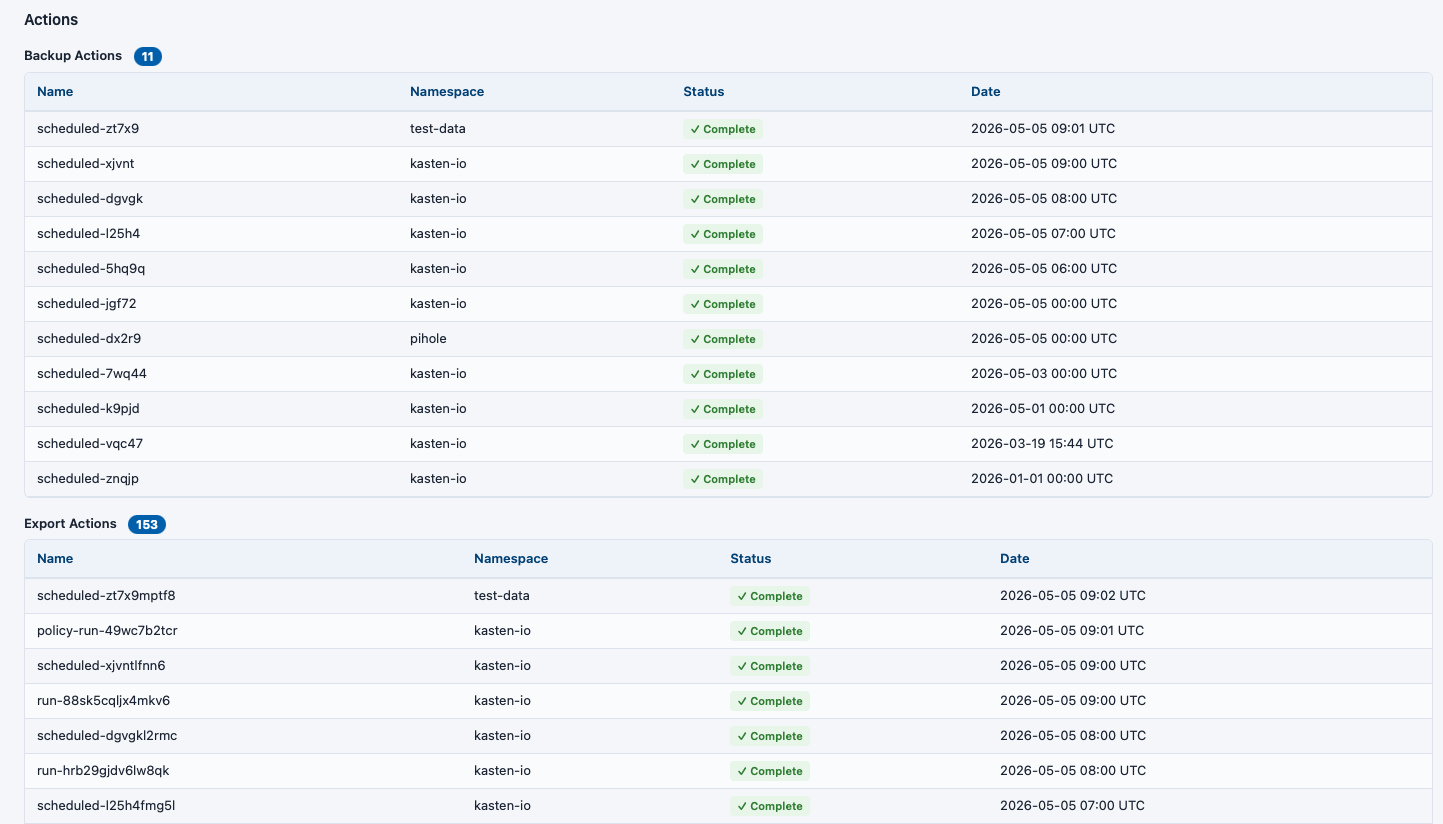
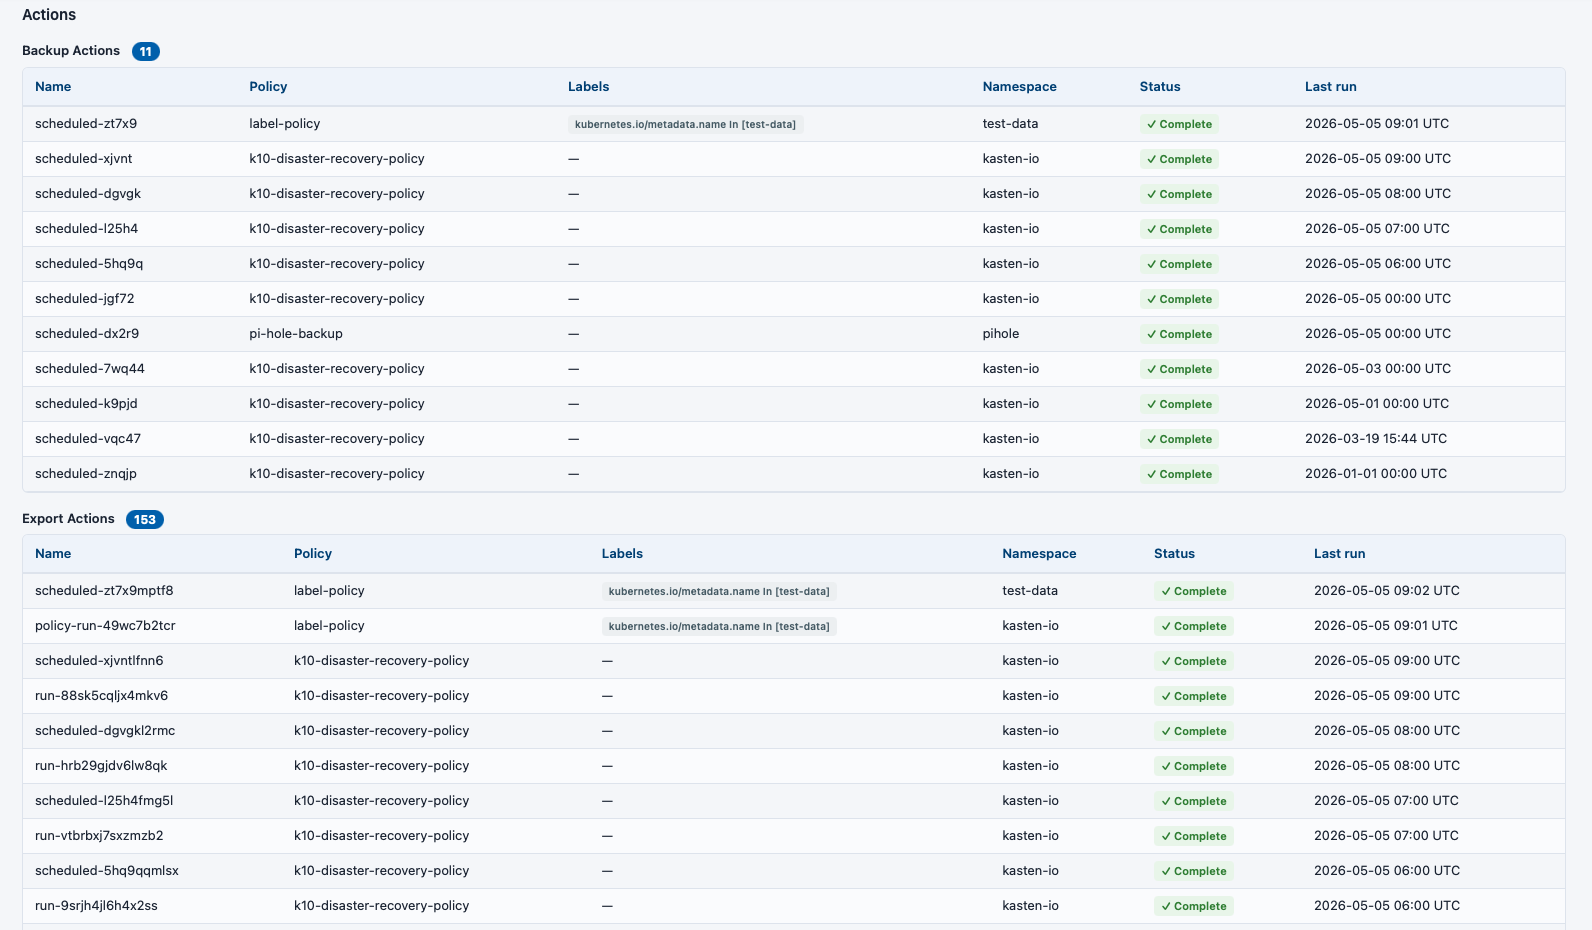
feat: Update script to version 1.4.1 with JSON export functionality for enhanced reporting

diff --git a/README.md b/README.md
@@ -1,6 +1,6 @@
 # Veeam Kasten Inventory Collector
 
-**`veeam-kasten-inventory.sh` v1.4.0** — A self-contained Bash script that collects Kubernetes cluster and Veeam Kasten information and generates a single, portable HTML report.
+**`veeam-kasten-inventory.sh` v1.4.1** — A self-contained Bash script that collects Kubernetes cluster and Veeam Kasten information and generates a single, portable HTML report.
 
 The report can be shared, opened offline in any browser, and requires no external dependencies at viewing time.
 
@@ -117,6 +117,7 @@ OPTIONS:
                            (default: ./build)
   --no-helm                Skip Helm values collection (recommended for security-sensitive environments)
   --no-ip-services         Mask IP addresses in the Services section
+  --json                   Also export a JSON file alongside the HTML report
   --timeout <seconds>      kubectl request timeout in seconds (default: 60)
   -h, --help               Show this help
 ```
@@ -135,6 +136,9 @@ OPTIONS:
 
 # Run against a remote cluster context
 ./veeam-kasten-inventory.sh --context aks-westeurope --output-dir ./reports/aks-westeurope
+
+# Export both HTML and JSON (e.g. for Splunk ingestion)
+./veeam-kasten-inventory.sh --json --output-dir ./reports
 ```
 
 ---
@@ -145,10 +149,39 @@ After the script completes, the HTML report is saved in the output directory (de
 
 ```
 ./build/
-└── veeam-kasten-inventory-<context>-<timestamp>.html
+└── inventory-<timestamp>.html
 ```
 
 Open the file in any browser — no internet connection or server required.
+
+### JSON export
+
+When `--json` is passed, a JSON file is written alongside the HTML report with the same base name:
+
+```
+./build/
+├── inventory-<timestamp>.html
+└── inventory-<timestamp>.json
+```
+
+The JSON file contains all collected data in a flat, machine-readable structure suitable for ingestion into Splunk, Elasticsearch, or any JSON-capable monitoring tool:
+
+| Top-level key | Content |
+|---------------|---------|
+| `generated_at` | Report generation timestamp (UTC) |
+| `context` | Kubernetes context name |
+| `overview` | Node/pod/namespace/event counts, Kasten version |
+| `license` | License validity, expiry, node coverage |
+| `nodes` | Node list with roles, status, CPU/memory |
+| `pods` | All pods with phase, restarts, resources |
+| `services` | Services with type, IPs, ports |
+| `storage` | StorageClasses, PVs, PVCs, CSI drivers, VolumeSnapshotClasses |
+| `crds` | All CRDs with group, scope, kind |
+| `operators` | OLM ClusterServiceVersions |
+| `network` | CNI type, CNI pods, NetworkPolicies |
+| `events` | All events with type, reason, message |
+| `kasten` | Policies, actions (backup/export/restore), profiles, blueprints, DR, reports |
+| `namespace_protection` | Per-namespace protection status with flattened `last_backup_state`, `last_backup_date`, `last_export_state`, `last_export_date`, `last_restore_state`, `last_restore_date` fields |
 
 ---
 
@@ -254,6 +287,9 @@ rules:
 ---
 
 ## Changelog
+
+### v1.4.1
+- **JSON export**: New `--json` flag writes a `.json` file alongside the HTML report, containing all collected data (nodes, pods, storage, Kasten policies/actions/profiles, namespace protection, license, events, etc.) in a flat, machine-readable structure suitable for Splunk, Elasticsearch, or any JSON-capable monitoring tool
 
 ### v1.4.0
 - **Overview**: PVC card now shows total storage capacity alongside PVC count
